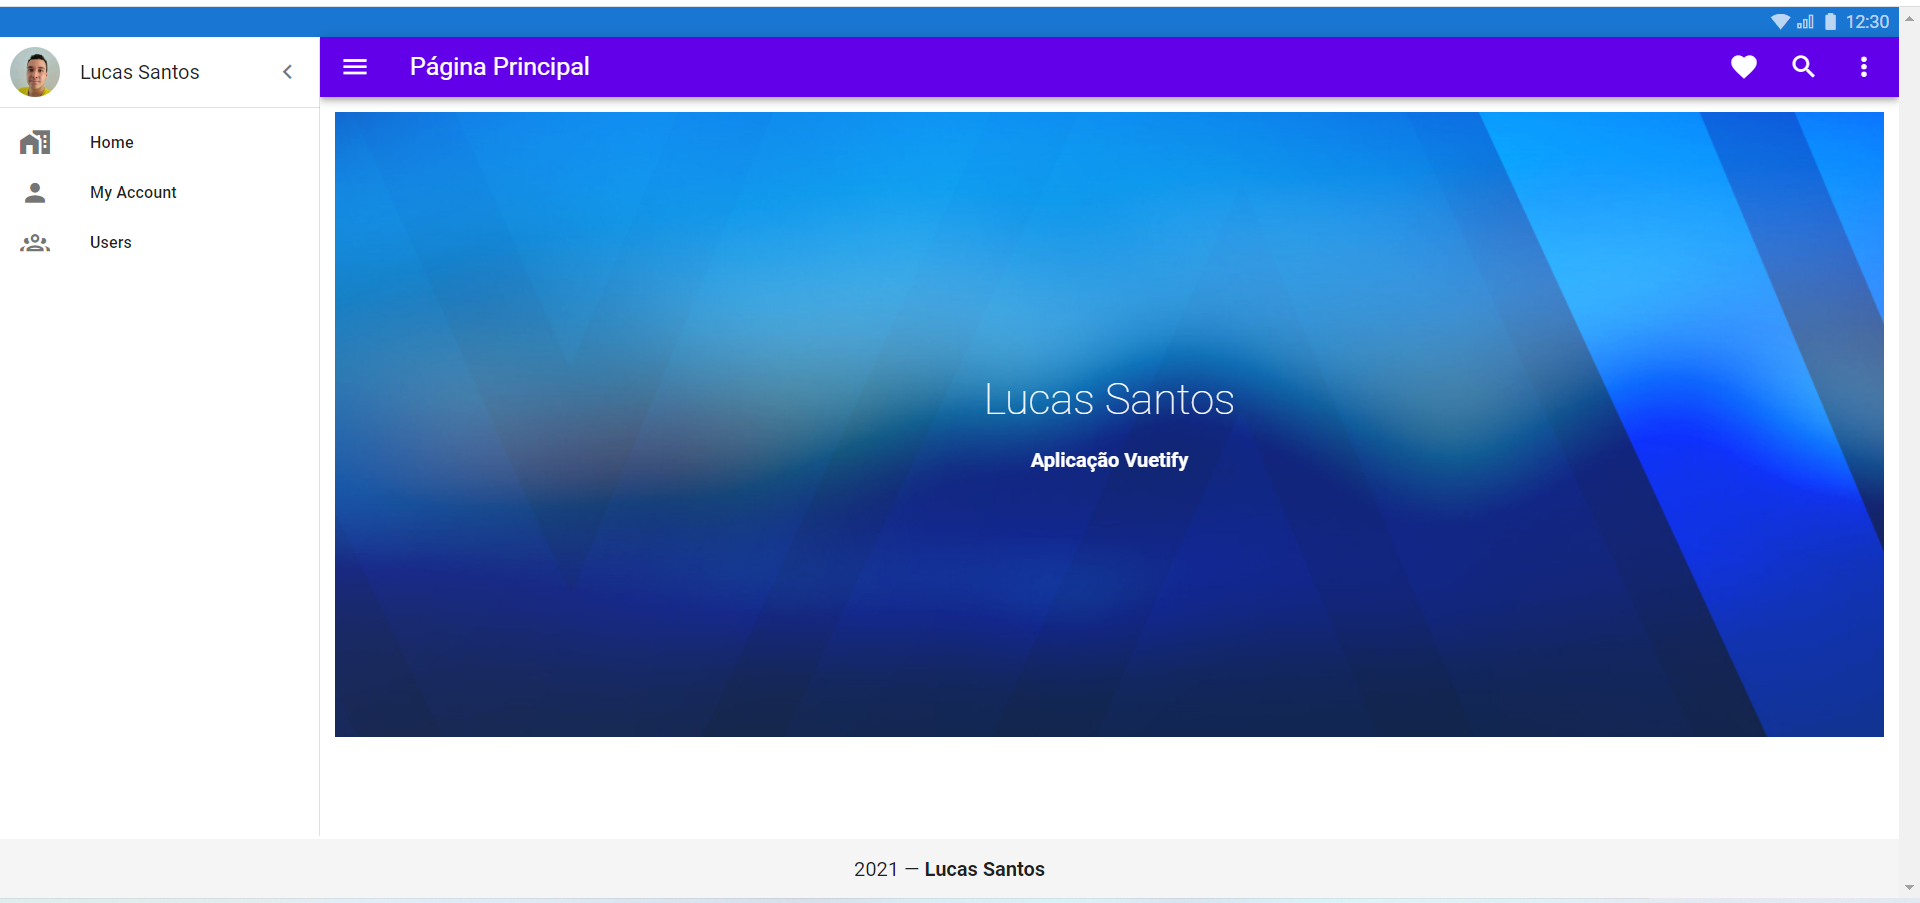
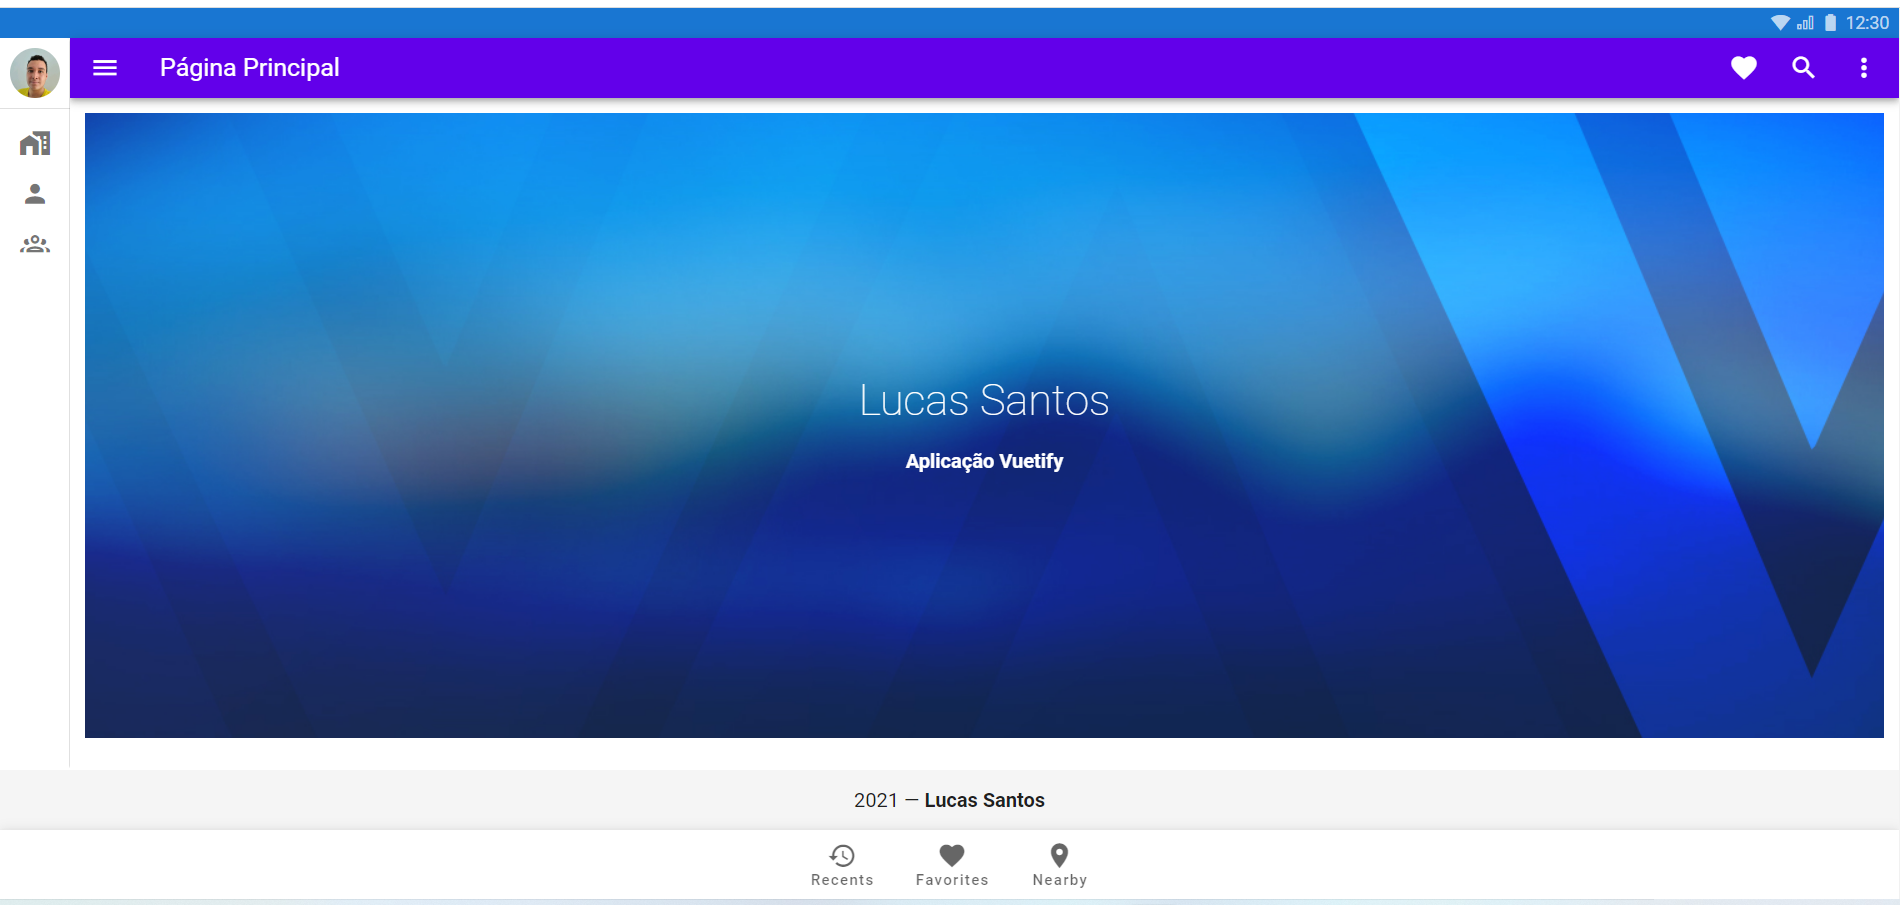
Vuetify - criando app Vuetify

diff --git a/src/App.vue b/src/App.vue
@@ -99,6 +99,26 @@
           {{ new Date().getFullYear() }} — <strong>Lucas Santos</strong>
         </v-col>
       </v-footer>
+
+      <v-bottom-navigation app :value="value" color="primary">
+        <v-btn>
+          <span>Recents</span>
+
+          <v-icon>mdi-history</v-icon>
+        </v-btn>
+
+        <v-btn>
+          <span>Favorites</span>
+
+          <v-icon>mdi-heart</v-icon>
+        </v-btn>
+
+        <v-btn>
+          <span>Nearby</span>
+
+          <v-icon>mdi-map-marker</v-icon>
+        </v-btn>
+      </v-bottom-navigation>
     </div>
   </v-app>
 </template>
